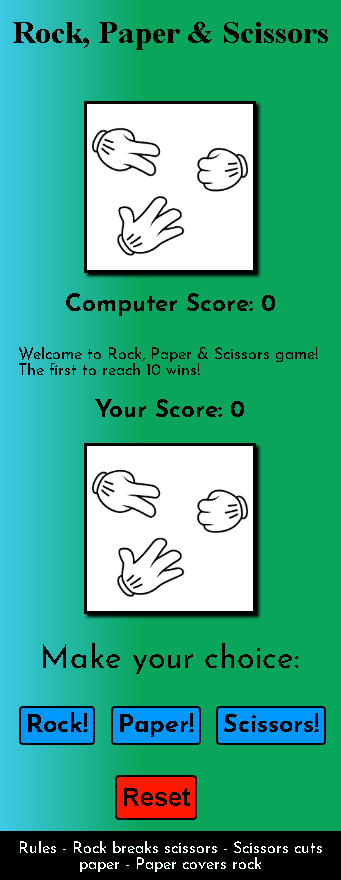
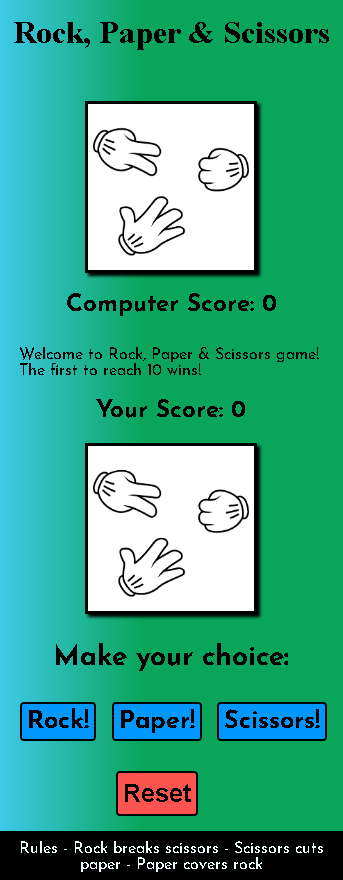
added images to readme

diff --git a/assets/js/script.js b/assets/js/script.js
@@ -83,10 +83,6 @@ function startGame(userChoice) {
     // Check winner
     if (userChoice === computerChoice) {
         messages.innerHTML = `It's a draw! You both chose ${choices[userChoice]}.`;
-        // Check if its a close game
-        if (userScoreValue >= 7 && computerScoreValue >= 7 && Math.abs(userScoreValue - computerScoreValue ) <= 1) {
-            messages.innerHTML += "This is a close game!";
-        }
     } else if ((userChoice === 0 && computerChoice === 2) ||
         (userChoice === 1 && computerChoice === 0) ||
         (userChoice === 2 && computerChoice === 1)) {

diff --git a/index.html b/index.html
@@ -45,7 +45,7 @@
     <section id="game-choices">
         <br>
         <div id="choice-statement">
-            <p>Make your choice:</p>
+            <h3>Make your choice:</h3>
         </div>
         <div id="choices">
             <button aria-label="Rock" data-choice="0" class="choice-btn">Rock!</button>

diff --git a/assets/css/style.css b/assets/css/style.css
@@ -98,10 +98,11 @@ button {
 
 #choice-statement {
     display: flex;
-    font-size: 2rem;
+    font-size: 24px;
     font-family: "Josefin Sans", sans-serif;
     justify-content: center;
     margin-bottom: 10px;
+    
 }
 
 .reset-btn {

diff --git a/README.md b/README.md
@@ -1,6 +1,6 @@
 # Rock, Paper & Scissors
 
-![Rock, Paper & Scissors responsive image]()
+![Rock, Paper & Scissors responsive image](assets/readme-files/am-I-responsive.png)
 
 I've created a rock-paper-scissors game where users compete against the computer in a fun and engaging battle. The game showcases a straightforward layout and vibrant color scheme designed to elevate the user experience. The goal of the game is to provide users with a brief and entertaining competition against the computer, where the first player to reach 10 victories wins.
 
@@ -178,13 +178,13 @@ I've outlined the design on pen and paper, creating multiple versions before fin
 
 * Lighthouse reports
         
-        - **Game Page**
+    - **Game Page**
 
-        - Mobile View
-        !insert image
+    - Mobile View
+    ![lighthouse-mobile](assets/readme-files/lighthouse-final-mobile.png)
 
-        - Desktop View
-        !insert image
+    - Desktop View
+    ![lighthouse-mobile](assets/readme-files/lighthouse-final-desktop.png)
 
     
 
@@ -207,29 +207,13 @@ I've outlined the design on pen and paper, creating multiple versions before fin
 * Device compatibility
 
     - The website has been tested on multiple devices, including:
+    
+        - Galaxy Z Fold - No issues
+        - Tablet - 768px and up - No issues
+        - Laptops - 992px, 1280px - No issues
 
 
 * Elements Testing
-
-    - Game Page
-        
-        - **Buttons**
-            - Buttons adjust throughout all views
-
-        - **Game images**
-            - Game images adjust in size and the screen changes
-
-* JavaScript Testing
-
-     - Game Page
-        - **Buttons**
-            - Buttons work throughout the game and reset button correctly resets the scores.
-
-        - **Images**
-            - Images change correctly when user/computer selects their choice. Base image loads on game start and when reset button is clicked.
-
-        - **Game testing - Other Users**
-            - Multiple users have played the game to ensure it works correctly - no issues found.
 
 * Common Elements Testing
 
@@ -237,66 +221,52 @@ I've outlined the design on pen and paper, creating multiple versions before fin
 
     Feature | Outcome | Pass/Fail
     --- | --- | ---
+    Responsive design | The game can be played on mobile, tablet and Desktop | Pass
+    Game Images | Correctly change when user makes choice and are both responsive | Pass
+    Game Heading | Responsive accross devices without hindering the game | Pass
+    Footer | Displays the rules on all screen sizes clearly | Pass
+
+    - Game Section
+
+    Feature | Outcome | Pass/Fail
+    --- | --- | ---
     Rock Button | Brings up the correct image of a rock for both players. | Pass
     Paper | Brings up the correct image of a rock for both players | Pass
     Scissors | Brings up the correct image of a rock for both players | Pass
-    Responsive design | The game can be played on mobile, tablet and Desktop | Pass
     Reset Button | Resets the score either once there is a winner or during the match | Pass
     Player Score | Score correctly increases only when the player wins the round | Pass
     Computer Score | Score correctly increases only when the computer wins the round | Pass
     Center Message | JavaScript works and shows the correct message in the center on who won/lost | Pass
     End Result | Games ends correctly when either player reaches 10 | Pass
     Game Images | Correctly change when user makes choice and are both responsive | Pass
-    Game Heading | Responsive accross devices without hindering the game | Pass
-    Footer |
 
-    - Home Section
-    
-    Feature | Outcome | Pass/Fail
-    --- | --- | ---
-    Start Game Button | Hover effect work and link to game section when button is clicked work as expected. | Pass
-    Feedback Button | Hover effect work as expected and open feedback form popup when clicked. | Pass
-    
-    - Feedback Form Popup
-    
-    Feature | Outcome | Pass/Fail
-    --- | --- | ---
-    Form | Require all fields in the right format before submission. |  Pass
-    Send Feedback Button | Hover effect work as expected and submit form when cicked. |  Pass
-    Close Button | Hover effect work as expected and close popup when clicked. | Pass
-
-    - Game Section
-
-    Feature | Outcome | Pass/Fail
-    --- | --- | ---
-    Player Score | Increase by 1 when player win round. |  Pass
-    Computer Score | Increase by 1 when computer win round. |  Pass
-    Player Icon | Display the weapon chosen by the player. | Pass
-    Computer Icon | Display the weapon generated by the computer. | Pass
-    Game Feedback | Display the expected text depending on the round result. | Pass
-    Game Buttons | Clicking on each button select the correct weapon. | Pass
-    Rules Button | Hover effect work as expected and open rules popup when clicked. | Pass
-    Rules' Close Button | Hover effect work as expected and close popup when clicked. | Pass
-
-
-
-
-
-[Back to top ⇧](#guitar-history-101)
+[Back to top ⇧](#table-of-contents)
 
 ### Validator errors
 
 **No JavaScript errors found**
 
+**No CSS errors found**
+
 **lighthouse error**
 
-**footer error**
+![Lighthouse-error](assets/readme-files/lighthouse1.png)
+
+There was accessibility issues for this as I had used h1 tags for the header and then h3 for the score section. This has been changed and accessibility fixed
+
+![Lighthouse-fix](assets/readme-files/lighthouse2.png)
+
+There was a warning when checking HTML - No heading for second section - fixed by changing "Make a choice" to h3
+
+![html-val-warning](assets/readme-files/html-val-warning.png)
+
 
 
 ## Finished Product
 
 ### Game Page
 
+![finished product](assets/readme-files/game-page-2.png)
 
 [Back to top ⇧](#guitar-history-101)
 
@@ -307,38 +277,29 @@ I've outlined the design on pen and paper, creating multiple versions before fin
 
 ## Credits 
 
-* Images on website used from (https://pixabay.com/images/search/acoustic%20/)
+* Images on website used from (https://www.pinterest.co.uk/)
+
+* Game images edited by Martina Arrigoni
 
 ### Content
 
-- Almost all content written by developer
-
-### Media
-
-* [Pixabay](https://pixabay.com/)
-
-*  [Font Awesome](https://fontawesome.com/search)
+- All content written by developer
    
 
 ### Code
 
-- 
-
-- 
-
-- 
+- Code references commented on JavaScript 
 
 - [YouTube](https://www.youtube.com/), [Stack Overflow](https://stackoverflow.com/) and [W3schools](https://www.w3schools.com/) were used throughout the creation of this project.
 
-[Back to top ⇧](#guitar-history-101)
+[Back to top ⇧](#table-of-contents)
 
 ## Acknowledgements
 
-- 
+- I'd like to firstly thank my girlfriend Martina, She has assisted with the images and was a sounding board when deciding on a colour scheme for the pag
 
-- 
+- I would like to thank Marcel, He was invaluable when it came to design and the creation of this README file. He gave insights which I had not thought of
 
-- 
-- 
+- I would like to thank everyone who tested the game to ensure it worked correctly and also for their attempts to break it to ensure its robustness
 
-[Back to top ⇧](#guitar-history-101)
+[Back to top ⇧](#table-of-contents)
